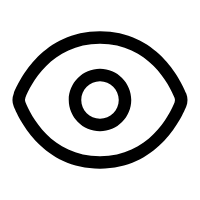
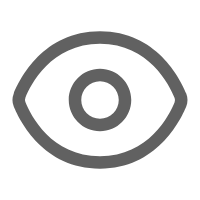
wish list

Changed region(s): [[0.06, 0.15, 0.96, 0.87], [0.33, 0.33, 0.66, 0.66]]

diff --git a/imovie_frontend/pages/basePage.js b/imovie_frontend/pages/basePage.js
@@ -87,37 +87,37 @@ const Page = ({ router, children,USERMESSAGE }) => {
         key : 4,
         value : "history",
         hasBorder : false,
-        href : "/movie/userMsg?activeKey=4"
+        href : "/movie/userMsg?activeKey=4&nouser=1"
       },{
         key : 5,
         value : "wishList",
         hasBorder : false,
-        href : "/movie/userMsg?activeKey=1"
+        href : "/movie/userMsg?activeKey=1&nouser=1"
       },{
         key : 6,
         value : "watched",
         hasBorder : false,
-        href : "/movie/userMsg?activeKey=2"
+        href : "/movie/userMsg?activeKey=2&nouser=1"
       },{
         key : 7,
         value : "movie lists",
         hasBorder : false,
-        href : "/movie/userMsg?activeKey=3"
+        href : "/movie/userMsg?activeKey=3&nouser=1"
       },{
         key : 8,
         value : "reviews",
         hasBorder : false,
-        href : "/movie/userMsg?activeKey=5"
+        href : "/movie/userMsg?activeKey=5&nouser=1"
       },{
         key : 9,
         value : "likes",
         hasBorder : false,
-        href : "/movie/userMsg?activeKey=6"
+        href : "/movie/userMsg?activeKey=6&nouser=1"
       },{
         key : 10,
         value : "disLikes",
         hasBorder : true,
-        href : "/movie/userMsg?activeKey=7"
+        href : "/movie/userMsg?activeKey=7&nouser=1"
       },{
         key : 11,
         value : "sight out",

diff --git a/imovie_frontend/pages/movie/userMsg.js b/imovie_frontend/pages/movie/userMsg.js
@@ -91,7 +91,7 @@ const UserMsg = ({USERMESSAGE,initQuery}) => {
         !showDom ? null :
           (
             !edit ?  <div className={"user-message-box"}>
-              <div className="user-message-title">
+              {!initQuery.nouser && <div className="user-message-title">
                 <div className="user-logo">
                   <Avatar size={60}
                           icon={<UserOutlined />} />
@@ -114,7 +114,7 @@ const UserMsg = ({USERMESSAGE,initQuery}) => {
                     EDIT PROFILE
                   </div>
                 </div>
-              </div>
+              </div>}
               <div className={"tab-pane-box"}>
                 <Tabs
                   activeKey={activeKey}
@@ -165,11 +165,13 @@ UserMsg.getInitialProps = async (status) => {
   const profile = status && status.query && status.query.profile;
   const activeKey = status && status.query && status.query.activeKey <= 7 &&
     status.query.activeKey || "1";
+  const nouser = status && status.query && status.query.nouser || null
   console.log("activeKey",activeKey)
   return {
     initQuery: {
       profile,
       activeKey,
+      nouser,
     }
   }
 }

diff --git a/imovie_frontend/components/Home/ImageDom.js b/imovie_frontend/components/Home/ImageDom.js
@@ -64,19 +64,19 @@ const ImageDom = ({imageDomRef,item,index,isLogin,from,wishListDo,
       if(isGet){
         return <img src={"/static/likeTrue.png"}/>
       }else{
-        return <img src={"/static/likeFalse.png"}/>
+        return <img src={"/static/likeFalse2.png"}/>
       }
     }else if(type === 1){
       if(isGet){
         return <img src={"/static/lookTrue.png"}/>
       }else{
-        return <img src={"/static/lookFalse.png"}/>
+        return <img src={"/static/lookFalse2.png"}/>
       }
     }else if(type === 2){
       if(isGet){
         return <img src={"/static/collentTrue.png"}/>
       }else{
-        return <img src={"/static/collentFalse.png"}/>
+        return <img src={"/static/collentFalse2.png"}/>
       }
     }
   }

diff --git a/imovie_frontend/components/UserMsg/WishList.js b/imovie_frontend/components/UserMsg/WishList.js
@@ -200,7 +200,8 @@ const WishListComponent = ({uid}) => {
                const _page = _.cloneDeep(page);
                _page.number = pageIndex;
                _page.size = pageSize;
-               changePage(_page)
+               changePage(_page);
+               fetchData(_page);
              }}
                />
                </div>
